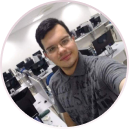
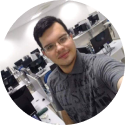
page maintenance - Profissionais

diff --git a/src/pages/blastoff.html b/src/pages/blastoff.html
@@ -226,7 +226,7 @@
               </figure>
               <h3 class="fs-title-lg mt-4 mb-3">Flavio Bergamini</h3>
               <p class="">
-                Graduando em Engenharia da Computação. Possuo o objetivo de entregar soluções com qualidade, e a cada dia aprender cada vez mais.
+                Formado em Engenharia da Computação. Possuo o objetivo de entregar soluções com qualidade, e a cada dia aprender cada vez mais.
               </p>
             </li>
           </ul>
@@ -234,7 +234,7 @@
       </div>
     </section>
     <section class="section-apprenticeship light-orbs">
-      <div class="container">
+      <div class="container light-orbs">
         <div class="text-white d-flex justify-content-between align-items-end mb-5">
           <div class="">
             <p class="fs-headline-lg color-magenta fw-bold mb-2">Fundamentos e Soft skills</p>
@@ -302,6 +302,9 @@
           </ul>
         </div>
       </div>
+    </section>
+    <section>
+
     </section>
     <section class="section-doubts light-orbs">
       <div class="container">

diff --git a/src/public/stylesheets/style.css b/src/public/stylesheets/style.css
@@ -349,15 +349,28 @@ Files inside this folder can contain specific element styles and layout.
   position: relative;
 }
 .page-blastoff .main .section-professionals .professional-list .professional-list-item .profile-image {
+  border-radius: 100%;
   left: 50%;
   margin: auto;
+  overflow: hidden;
   position: absolute;
   top: -65px;
   transform: translateX(-50%);
   width: 125px;
+  border: solid 2px rgba(225, 207, 214, 0.7333333333);
 }
 .page-blastoff .main .section-apprenticeship {
   margin-bottom: 175px;
+}
+.page-blastoff .main .section-apprenticeship .light-orbs::after {
+  display: none;
+}
+.page-blastoff .main .section-apprenticeship .light-orbs::before {
+  opacity: 0.15;
+  right: 10%;
+  top: 100%;
+  transform: translateY(-50%);
+  z-index: -1;
 }
 .page-blastoff .main .section-apprenticeship .apprenticeship-info {
   max-width: 510px;

diff --git a/src/sass/pages/_blastoff.scss b/src/sass/pages/_blastoff.scss
@@ -81,18 +81,33 @@ $light-blue: map-get(
           padding: 60px 19px 24px;
           position: relative;
           & .profile-image {
+            border-radius: 100%;
             left: 50%;
             margin: auto;
+            overflow: hidden;
             position: absolute;
             top: -65px;
             transform: translateX(-50%);
             width: 125px;
+            border: solid 2px #E1CFD6bb;
           }
         }
       }
     }
     & .section-apprenticeship {
       margin-bottom: 175px;
+      & .light-orbs {
+        &::after {
+          display: none;
+        }
+        &::before {
+          opacity: 0.15;
+          right: 10%;
+          top: 100%;
+          transform: translateY(-50%);
+          z-index: -1;
+        }
+      }
       & .apprenticeship-info {
         max-width: 510px;
       }
